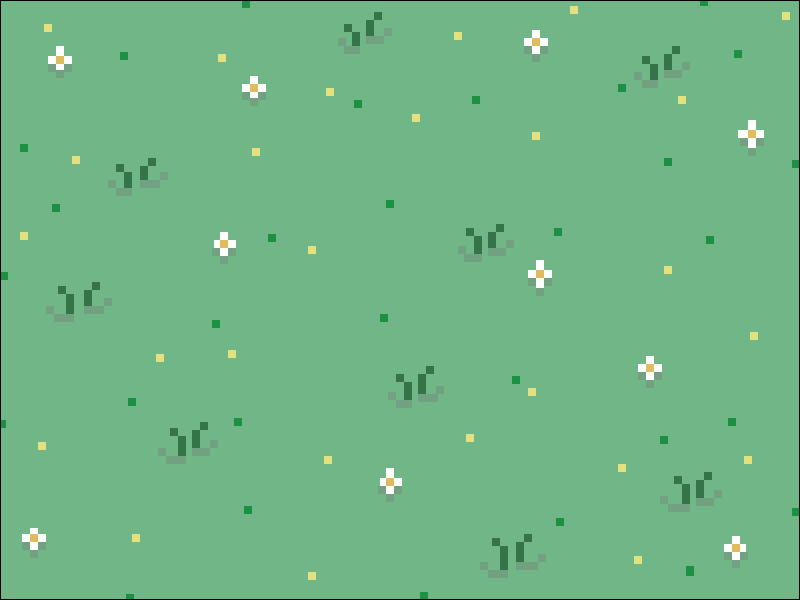
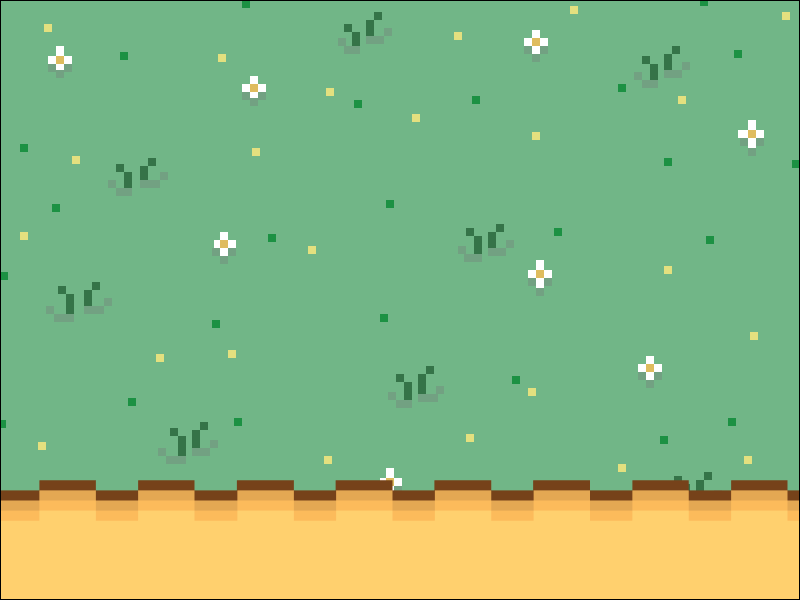
Slightly flawed edition of snake game

Changed region(s): [[0.0, 0.78, 1.0, 1.0]]

diff --git a/SnakeGame.py b/SnakeGame.py
@@ -11,6 +11,8 @@ screen = pygame.display.set_mode((SCREEN_WIDTH, SCREEN_HEIGHT))
 pygame.display.set_caption('SNAKE GAME')
 BACKGROUND = pygame.image.load("images/snakegamebg.png")
 
+clock = pygame.time.Clock()
+
 # Main Colours
 gold1 = (230, 224, 174)
 gold2 = (223, 188, 94)
@@ -29,29 +31,99 @@ green5 = (117, 132, 133)
 black = (0, 0, 0)
 white = (255, 255, 255)
 
-snake_block = 10
+snake_block = 15
 snake_speed = 15
 
 font_style = pygame.font.Font("fonts/Shojumaru-Regular.ttf", 25)
 
 def current_score(score):
+  # shadow text
   shadow = font_style.render("Score: " + str(score), True, green4)
   screen.blit(shadow, [652, 12])
-  
+
+  # main text
   main = font_style.render("Score: " + str(score), True, white)
   screen.blit(main, [650, 10])
 
-run = True
-while run:
+def snake(snake_block, snake_list):
+  for i in snake_list:
+    pygame.draw.rect(screen, green2, [i[0], i[1], snake_block, snake_block])
 
-  for event in pygame.event.get():
-    if event.type == pygame.QUIT:
-      run = False
+def game():
+  run = True 
+  end = False
+
+  x1 = SCREEN_WIDTH / 2
+  y1 = SCREEN_HEIGHT /2
+
+  x1_change = 0
+  y1_change = 0
+
+  snake_list = []
+  snake_len = 1
+
+  foodx = round(random.randrange(0, SCREEN_WIDTH - snake_block) / 10.0) * 10.0
+  foody = round(random.randrange(0, SCREEN_WIDTH - snake_block) / 10.0) * 10.0
+
+  while run:
+    # when player loses
+    while end == True:
+      print("poop")
+
+    screen.blit(BACKGROUND, (0, 0))
+
+    for event in pygame.event.get():
+      if event.type == pygame.KEYDOWN:
+          if event.key == pygame.K_LEFT:
+            if snake_block >= snake_block:
+              x1_change = -snake_block
+          elif event.key == pygame.K_RIGHT:
+            if snake_block < SCREEN_WIDTH - snake_block:
+              x1_change = snake_block
+          elif event.key == pygame.K_UP:
+            if y1_change >= snake_block:
+              y1_change = -snake_block
+          elif event.key == pygame.K_DOWN:
+            if y1_change < SCREEN_HEIGHT - snake_block:
+              y1_change = snake_block
+    
+    x1 += x1_change
+    y1 += y1_change
+
+    snake_list.append([x1, y1])
+
+    # if len(snake_list) > snake_len:
+    #   del snake_list
+
+    snake(snake_block, snake_list)
+
+    current_score(snake_len - 1)
+
+    pygame.display.flip()
+
+    if x1 == foodx and y1 == foody:
+      foodx = round(random.randrange(0, SCREEN_WIDTH - snake_block) / 10.0) * 10.0
+      foody = round(random.randrange(0, SCREEN_WIDTH - snake_block) / 10.0) * 10.0
+    
+      snake_len += 1
+
+    clock.tick(snake_speed)
+  pygame.quit()
+
+game()
+# run = True
+# while run:
+
+#   for event in pygame.event.get():
+#     if event.type == pygame.QUIT:
+#       run = False
   
-      # Draw the background image onto the screen
-  screen.blit(BACKGROUND, (0, 0))
-  current_score(5)
-  # Update the display
-  pygame.display.flip()
+#   # Draw the background image onto the screen
+#   screen.blit(BACKGROUND, (0, 0))
+#   # testing
+#   current_score(5)
+#   snake(snake_block, [[300, 300], [315, 300]])
+#   # Update the display
+#   pygame.display.flip()
 
-pygame.quit()
+# pygame.quit()
